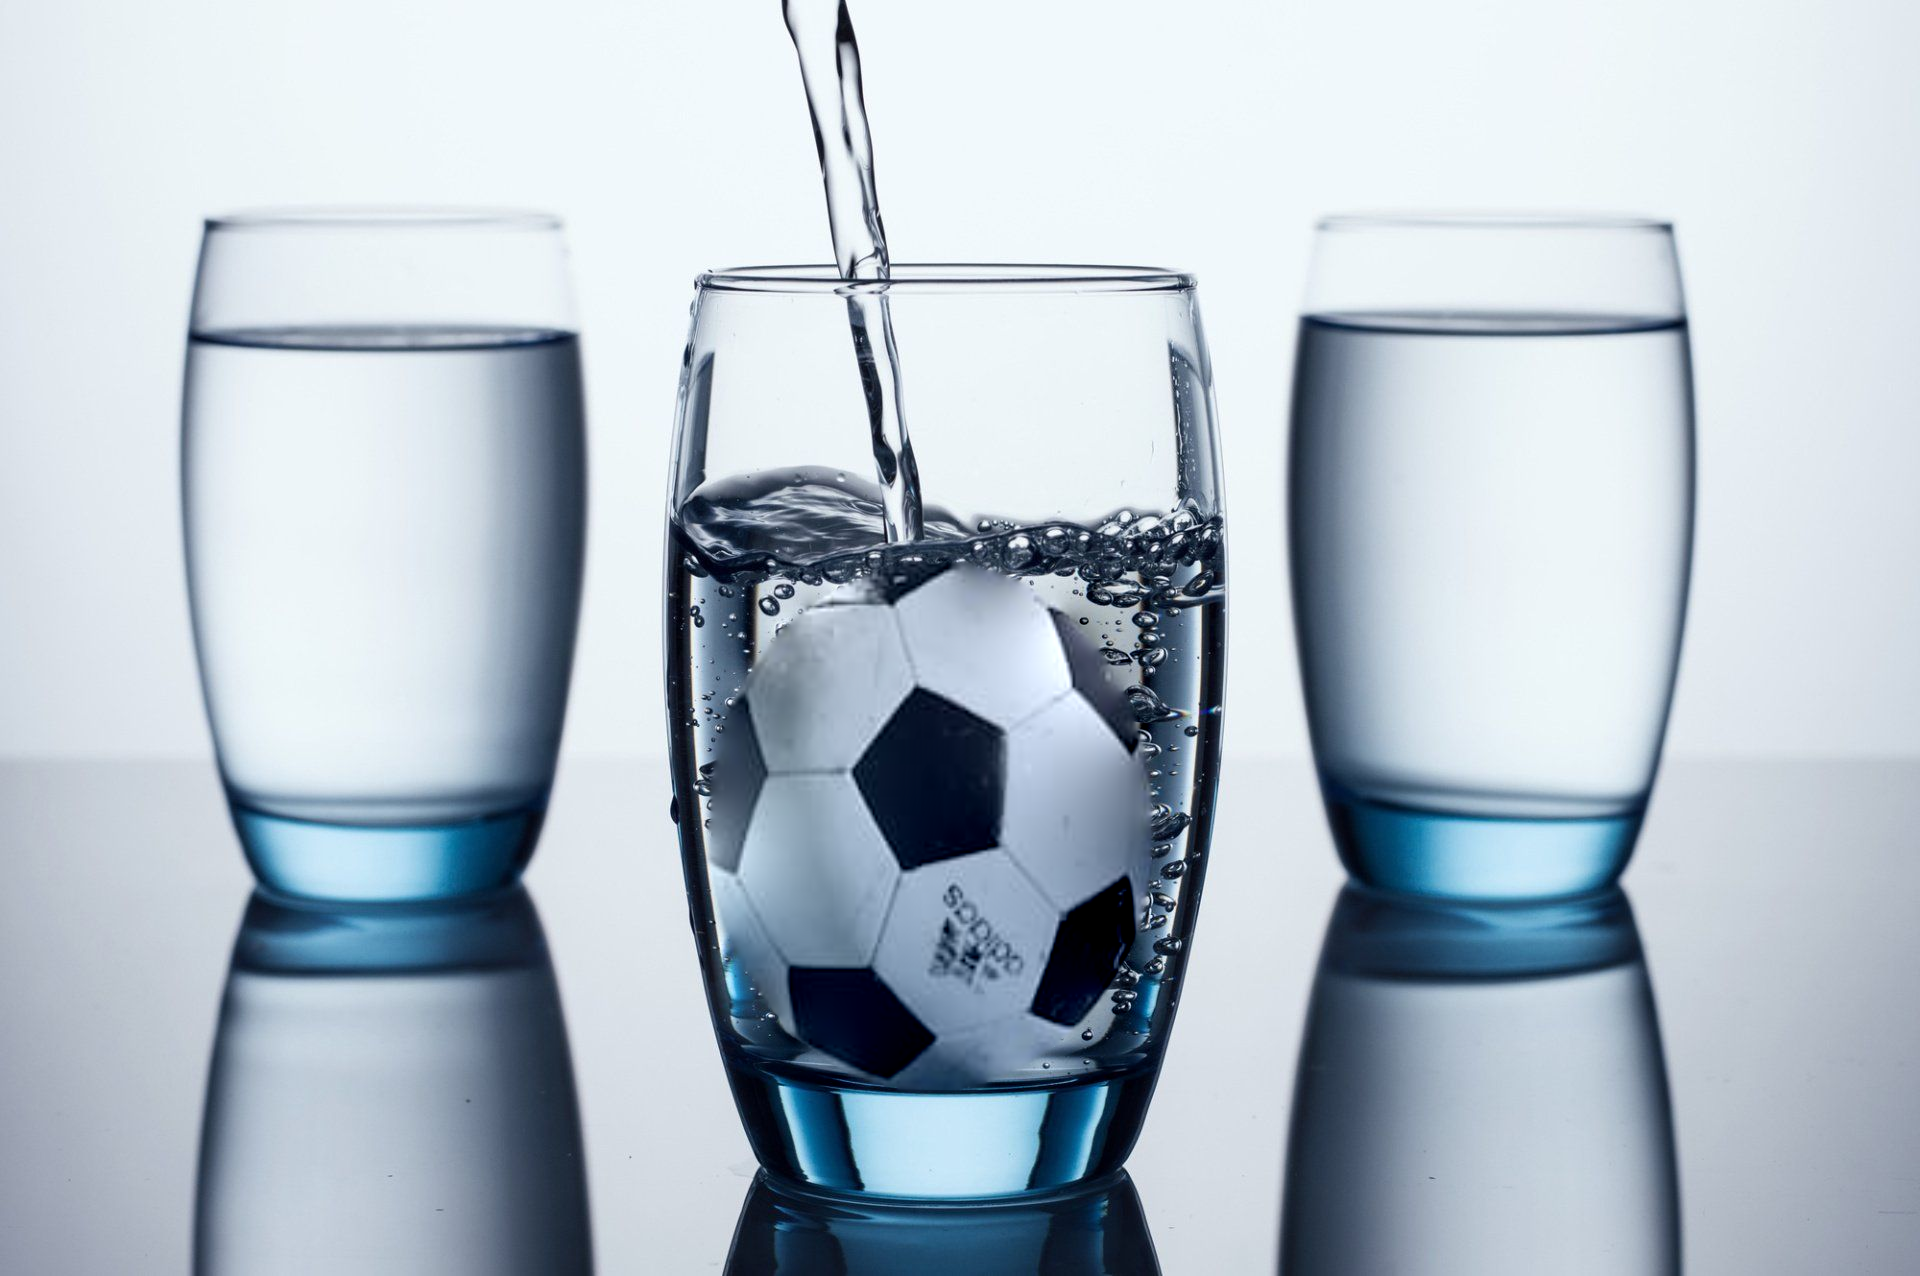
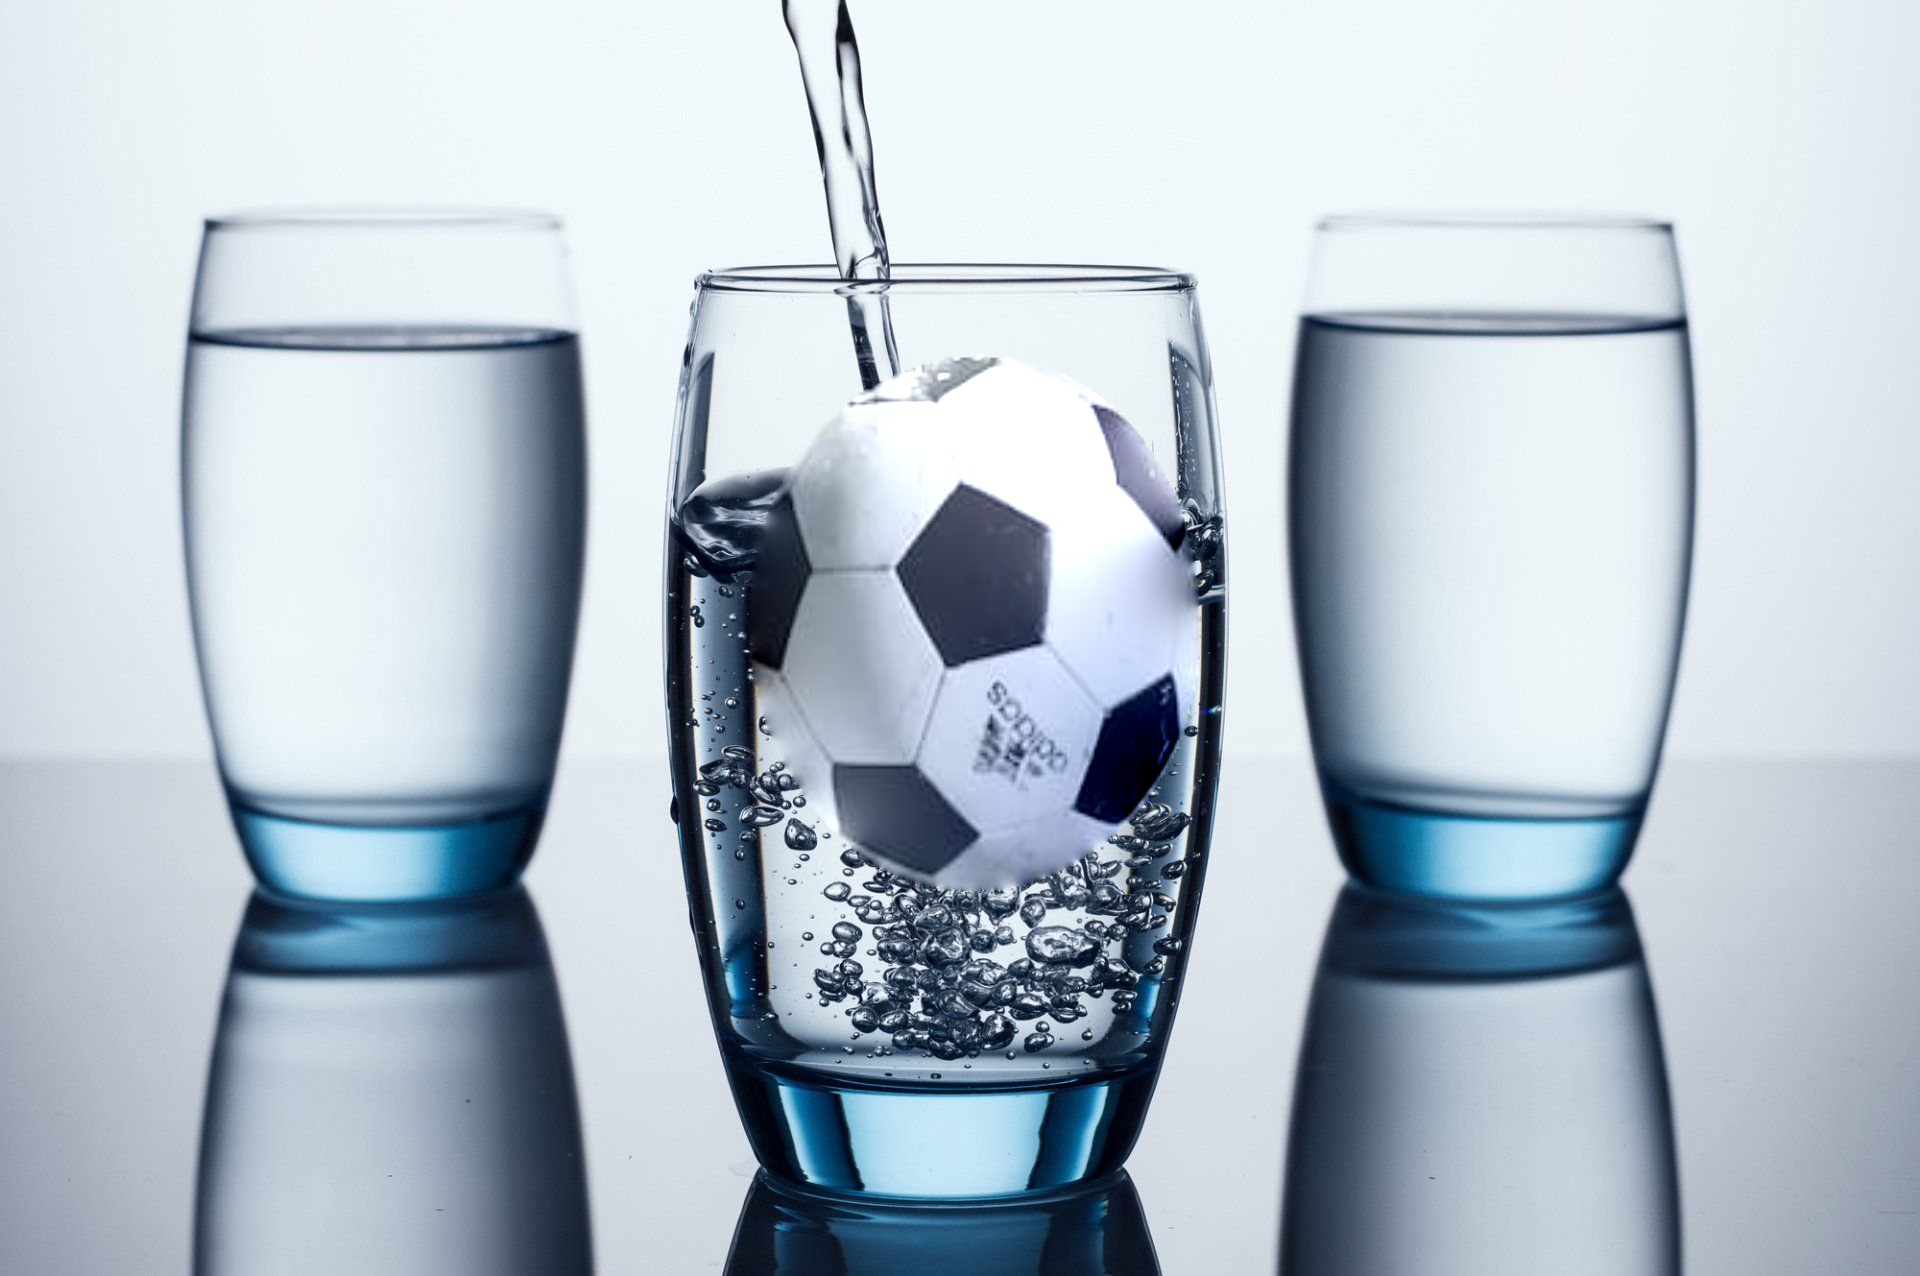
Everything not works...

Changed region(s): [[0.3438, 0.2751, 0.625, 0.8558]]

diff --git a/Lab09/src/SeamlessClone.py b/Lab09/src/SeamlessClone.py
@@ -1,0 +1,132 @@
+import cv2
+import numpy as np
+from scipy.sparse import lil_matrix, linalg
+
+class PoissonEditor:
+    def __init__(self, src, dst, mask):
+        self.src = src
+        self.dst = dst
+        self.mask = mask
+        
+        # 1. Binarize mask (0 or 1) and normalize
+        _, self.mask = cv2.threshold(self.mask, 127, 1, cv2.THRESH_BINARY)
+        self.mask = self.mask.astype(np.uint8)
+
+        # 2. Get coordinates of all white pixels in the mask
+        # shape: (N, 2) -> (y, x)
+        self.coords = np.argwhere(self.mask == 1)
+        
+        # 3. Create a mapping: Pixel Coordinate (y,x) -> Variable Index (0..N)
+        # This helps us build the matrix A efficiently
+        self.index_map = np.zeros(self.mask.shape, dtype=np.int32) - 1
+        for i, (y, x) in enumerate(self.coords):
+            self.index_map[y, x] = i
+            
+        self.N = len(self.coords) # Number of unknown pixels
+
+    def get_laplacian_matrix(self):
+        """
+        Builds the Matrix A (Sparse).
+        Diagonal is 4. Neighbors are -1.
+        """
+        A = lil_matrix((self.N, self.N))
+        
+        # Offsets for 4 neighbors: Up, Down, Left, Right
+        neighbors = [(-1, 0), (1, 0), (0, -1), (0, 1)]
+
+        for i, (y, x) in enumerate(self.coords):
+            A[i, i] = 4  # Center pixel coefficient
+            
+            for dy, dx in neighbors:
+                ny, nx = y + dy, x + dx
+                
+                # If neighbor is inside the mask, it's a variable in our system
+                if self.mask[ny, nx] == 1:
+                    j = self.index_map[ny, nx]
+                    A[i, j] = -1
+        
+        return A
+
+    def get_b_vector(self, channel_src, channel_dst):
+        """
+        Calculates vector b.
+        b = Laplacian(Source) + Boundary(Target)
+        """
+        b = np.zeros(self.N)
+        neighbors = [(-1, 0), (1, 0), (0, -1), (0, 1)]
+
+        for i, (y, x) in enumerate(self.coords):
+            # 1. Laplacian of Source Image (Guidance field)
+            # source_val * 4 - neighbors
+            laplacian_val = 4 * channel_src[y, x] - \
+                            float(channel_src[y-1, x]) - \
+                            float(channel_src[y+1, x]) - \
+                            float(channel_src[y, x-1]) - \
+                            float(channel_src[y, x+1])
+            
+            b[i] = laplacian_val
+
+            # 2. Add Boundary Conditions (Dirichlet)
+            # If a neighbor is OUTSIDE the mask, we add the Target image value
+            for dy, dx in neighbors:
+                ny, nx = y + dy, x + dx
+                if self.mask[ny, nx] == 0:
+                    b[i] += channel_dst[ny, nx]
+        
+        return b
+
+    def blend(self):
+        print(f"Solving Poisson Equation for {self.N} pixels...")
+        
+        # 1. Build Matrix A (Same for all channels)
+        A = self.get_laplacian_matrix()
+        A_csr = A.tocsr() # Convert to Compressed Sparse Row for speed
+
+        # Prepare result image
+        result = self.dst.copy()
+
+        # 2. Solve for each channel (B, G, R) independently
+        for channel in range(3):
+            print(f"  > Processing Channel {channel}...")
+            
+            # Get source and destination intensity for this channel
+            s_ch = self.src[:, :, channel].astype(float)
+            d_ch = self.dst[:, :, channel].astype(float)
+            
+            # Build b vector
+            b = self.get_b_vector(s_ch, d_ch)
+            
+            # Solve Ax = b
+            x = linalg.spsolve(A_csr, b)
+            
+            # Clip values to 0-255
+            x = np.clip(x, 0, 255)
+            
+            # Place solved values back into result image
+            for i, (y, x_coord) in enumerate(self.coords):
+                result[y, x_coord, channel] = x[i]
+
+        return result
+
+# --- Usage Example ---
+if __name__ == "__main__":
+    
+    src = cv2.imread("plane.jpg") 
+    dst = cv2.imread("sky.jpg")
+    
+    # Let's assume we already aligned them or resized them roughly
+    # For this script, I'll resize src to match dst to avoid index errors
+    src = cv2.resize(src, (dst.shape[1], dst.shape[0]))
+
+    mask = np.zeros(dst.shape[:2], dtype=np.uint8)
+    h, w = dst.shape[:2]
+    mask[int(h*0.3):int(h*0.7), int(w*0.3):int(w*0.7)] = 255
+
+    editor = PoissonEditor(src, dst, mask)
+    output = editor.blend()
+
+    cv2.imshow("Original Source", src)
+    cv2.imshow("Original Dest", dst)
+    cv2.imshow("Poisson Result (Manual)", output)
+    cv2.waitKey(0)
+    cv2.destroyAllWindows()

diff --git a/Lab09/restore.py b/Lab09/restore.py
@@ -1,0 +1,45 @@
+import cv2
+import numpy as np
+import matplotlib.pyplot as plt
+
+from src import PoissonEditor
+
+img_path = "./Lab09/images/ball.jpg" 
+original = cv2.imread(img_path)
+original = cv2.resize(original, (600, 400))
+
+x, y, w, h  = cv2.selectROI("Select the area to be corrupted", original)
+
+top, bottom, left, right = y, y + h, x, x + w
+
+cv2.destroyAllWindows()
+
+original = cv2.cvtColor(original, cv2.COLOR_BGR2RGB)
+corrupted = original.copy()
+
+corrupted[top:bottom, left:right] = np.median(corrupted[top:bottom, left:right], axis=(0, 1))
+
+mask = np.zeros(original.shape[:2], dtype=np.uint8)
+mask[top:bottom, left:right] = 255
+
+center = (int((left + right) / 2), int((top + bottom) / 2))
+
+# restored = cv2.seamlessClone(original, corrupted, mask, center, cv2.NORMAL_CLONE)
+restored = PoissonEditor(original, corrupted, mask).blend()
+
+fig, axes = plt.subplots(1, 3, figsize=(15, 5))
+axes[0].set_title("[Original]")
+axes[0].imshow(original)
+
+axes[1].set_title("[Corrupted]")
+axes[1].imshow(corrupted)
+
+axes[2].set_title("[Restored]")
+axes[2].imshow(restored)
+plt.show()
+
+cv2.imwrite("./Lab09/images/corrupted.jpg", corrupted)
+cv2.imwrite("./Lab09/images/restored.jpg", restored)
+
+cv2.waitKey(0)
+cv2.destroyAllWindows()

diff --git a/Lab09/src/Poisson.py b/Lab09/src/Poisson.py
@@ -2,6 +2,7 @@ import os
 import cv2
 import numpy as np
 import matplotlib.pyplot as plt
+from .SeamlessClone import PoissonEditor
 
 
 class Poisson:
@@ -17,7 +18,7 @@ class Poisson:
         true_size = np.where(image_size < max_size, image_size, max_size).astype(int)
 
         self.target = cv2.resize(cv2.imread(target_path), true_size)
-        self.mask = cv2.resize(cv2.imread(mask_path), true_size)
+        self.mask = cv2.resize(cv2.imread(mask_path, 0), true_size)
 
         offset_width, offset_height = offset
         height, width = self.target.shape[:2]
@@ -30,7 +31,8 @@ class Poisson:
         print(self.offset)
 
     def run(self):
-        poisson_image = cv2.seamlessClone(self.target, self.image, self.mask, self.offset, cv2.NORMAL_CLONE)
+        poisson_image = PoissonEditor(self.target, self.image, self.mask).blend()
+        # poisson_image = cv2.seamlessClone(self.target, self.image, self.mask, self.offset, cv2.NORMAL_CLONE)
         poisson_image_path = os.path.join(os.path.dirname(self.image_path), "poisson.png")
         cv2.imwrite(poisson_image_path, poisson_image)
         return poisson_image_path

diff --git a/Lab09/src/__init__.py b/Lab09/src/__init__.py
@@ -1,4 +1,5 @@
 from src.Mask import MaskCreator, MaskMover
 from src.Poisson import Poisson
+from src.SeamlessClone import PoissonEditor
 
-__all__ = ["MaskCreator", "MaskMover", "Poisson"]
+__all__ = ["MaskCreator", "MaskMover", "Poisson", "PoissonEditor"]
